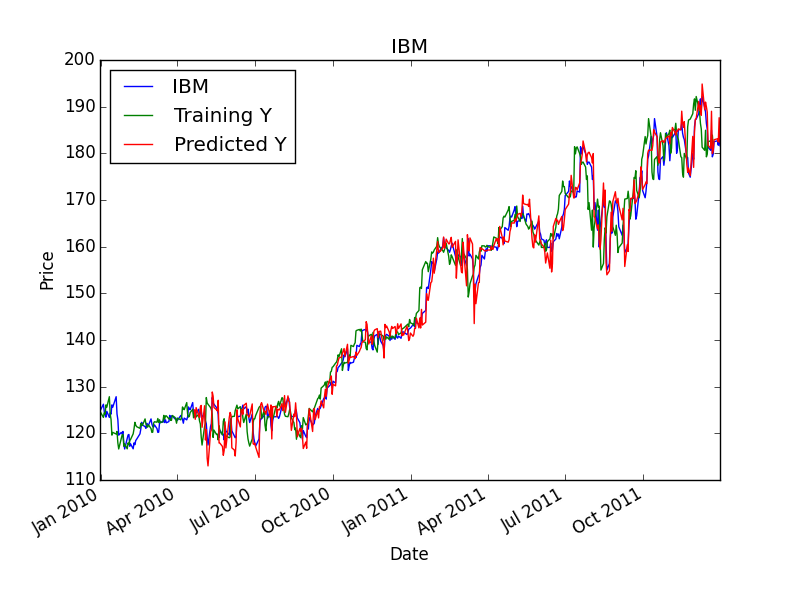
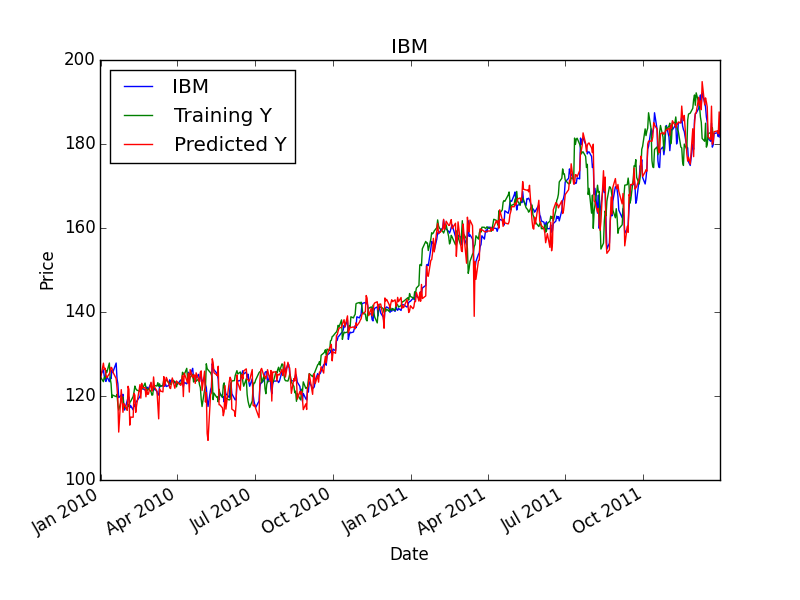
MC3 P2 Remaining plots generated

diff --git a/mc3_p2/mc3_p2.py b/mc3_p2/mc3_p2.py
@@ -124,7 +124,7 @@ def add_bb(prices, symbol):
 
 if __name__ == "__main__":
     symbol = 'IBM'
-    symbol = 'ML4T-220'
+    # symbol = 'ML4T-220'
 
 
     prices = get_data([symbol], pd.date_range(dt.datetime(2007,12,31), dt.datetime(2011,12,31)), False)
@@ -215,54 +215,60 @@ if __name__ == "__main__":
     learner.addEvidence(trainX, trainY) # train it
 
     # evaluate in sample
-    predY = learner.query(trainX) # get the predictions
-    rmse = np.sqrt(((trainY - predY) ** 2).sum()/trainY.shape[0])
-    print
-    print "In sample results"
-    print "RMSE: ", rmse
-    c = np.corrcoef(predY, y=trainY)
-    print "corr: ", c[0,1]
-
-    plot1 = prices.copy()
-    del plot1['bb_normed']
-    del plot1['15div75sma']
-    del plot1[symbol + '_normed']
-    del plot1['momentum']
-    plot1["Training Y"] = ((1.0 + Y)  *  prices[symbol])
-    plot1["Predicted Y"] = ((1.0 + predY) *  prices[symbol])
-    # print(plot1['20071231':'20091231'].tail())
-    chart = plot1['20071231':'20091231'].plot(title=symbol)
-    chart.set_xlabel("Date")
-    chart.set_ylabel("Price")
-    fig = chart.get_figure()
-    fig.savefig(symbol + "_plot1.png")
+    # predY = learner.query(trainX) # get the predictions
+    # rmse = np.sqrt(((trainY - predY) ** 2).sum()/trainY.shape[0])
+    # print
+    # print "In sample results"
+    # print "RMSE: ", rmse
+    # c = np.corrcoef(predY, y=trainY)
+    # print "corr: ", c[0,1]
+    #
+    # plot1 = prices.copy()
+    # del plot1['bb_normed']
+    # del plot1['15div75sma']
+    # del plot1[symbol + '_normed']
+    # del plot1['momentum']
+    # plot1["Training Y"] = ((1.0 + Y)  *  prices[symbol])
+    # plot1["Predicted Y"] = ((1.0 + predY) *  prices[symbol])
+    # # print(plot1['20071231':'20091231'].tail())
+    # chart = plot1['20071231':'20091231'].plot(title=symbol)
+    # chart.set_xlabel("Date")
+    # chart.set_ylabel("Price")
+    # fig = chart.get_figure()
+    # fig.savefig(symbol + "_plot1.png")
     # plt.show()
 
 
     # evaluate out of sample
-    # predY = learner.query(testX) # get the predictions
-    # rmse = np.sqrt(((testY - predY) ** 2).sum()/testY.shape[0])
-    # print
-    # print "Out of sample results"
-    # print "RMSE: ", rmse
-    # c = np.corrcoef(predY, y=testY)
-    # print "corr: ", c[0,1]
-    #
-    # plot1_oos = prices.copy()
-    # del plot1_oos['bb_normed']
-    # del plot1_oos['15div75sma']
-    # del plot1_oos[symbol + '_normed']
-    # del plot1_oos['momentum']
-    # plot1_oos["Training Y"] = ((1.0 + Y)  *  prices[symbol])
-    # plot1_oos["Predicted Y"] = ((1.0 + predY) *  prices[symbol])
-    # # print(plot1_oos['20071231':'20091231'].tail())
-    # chart = plot1_oos['20091231':'20111231'].plot(title=symbol)
-    # chart.set_xlabel("Date")
-    # chart.set_ylabel("Price")
-    # fig = chart.get_figure()
-    # fig.savefig(symbol + "_plot1_oos.png")
+    predY = learner.query(testX) # get the predictions
+    rmse = np.sqrt(((testY - predY) ** 2).sum()/testY.shape[0])
+    print
+    print "Out of sample results"
+    print "RMSE: ", rmse
+    c = np.corrcoef(predY, y=testY)
+    print "corr: ", c[0,1]
 
-    order_chart = prices.plot(title=symbol)
+    plot1_oos = prices.copy()
+    del plot1_oos['bb_normed']
+    del plot1_oos['15div75sma']
+    del plot1_oos[symbol + '_normed']
+    del plot1_oos['momentum']
+    plot1_oos["Training Y"] = ((1.0 + Y)  *  prices[symbol])
+    plot1_oos["Predicted Y"] = ((1.0 + predY) *  prices[symbol])
+    # print(plot1_oos['20071231':'20091231'].tail())
+    chart = plot1_oos['20091231':'20111231'].plot(title=symbol)
+    chart.set_xlabel("Date")
+    chart.set_ylabel("Price")
+    fig = chart.get_figure()
+    fig.savefig(symbol + "_plot1_oos.png")
+
+    orders_chart_prices = prices['20091231':'20111231'].copy()
+    del orders_chart_prices['bb_normed']
+    del orders_chart_prices['15div75sma']
+    del orders_chart_prices[symbol + '_normed']
+    del orders_chart_prices['momentum']
+
+    order_chart = orders_chart_prices.plot(title=symbol)
     order_chart.set_xlabel("Date")
     order_chart.set_ylabel("Price")
 
@@ -273,7 +279,7 @@ if __name__ == "__main__":
 
     hold = 0
     for i in xrange(predY.shape[0]):
-        today = prices.index[i]
+        today = orders_chart_prices.index[i]
         # print(i, today, predY[i])
 
         if hold > 0:
@@ -283,24 +289,24 @@ if __name__ == "__main__":
         if state == 'cash':
             if predY[i] > 0.01:
                 state = 'long'
-                chart.axvline(today, color="g")
+                order_chart.axvline(today, color="g")
                 orders.loc[len(orders)]=[today, symbol, "BUY", 100]
                 hold = 5
             elif predY[i] < -0.01:
                 state = 'short'
-                chart.axvline(today, color="r")
+                order_chart.axvline(today, color="r")
                 orders.loc[len(orders)]=[today, symbol, "SELL", 100]
                 hold = 5
 
         elif state == 'short':
             if predY[i] > 0 and predY[i] < 0.01:
                 state = 'cash'
-                chart.axvline(today, color="k")
+                order_chart.axvline(today, color="k")
                 orders.loc[len(orders)]=[today, symbol, "BUY", 100]
                 hold = 5
             elif predY[i] > 0.01:
                 state = 'long'
-                chart.axvline(today, color="g")
+                order_chart.axvline(today, color="g")
                 orders.loc[len(orders)]=[today, symbol, "BUY", 100]
                 orders.loc[len(orders)]=[today, symbol, "BUY", 100]
                 hold = 5
@@ -308,12 +314,12 @@ if __name__ == "__main__":
         else: #long
             if predY[i] < 0.01 and predY[i] > 0:
                 state = 'cash'
-                chart.axvline(today, color="k")
+                order_chart.axvline(today, color="k")
                 orders.loc[len(orders)]=[today, symbol, "SELL", 100]
                 hold = 5
             elif predY[i] < -0.01:
                 state = 'short'
-                chart.axvline(today, color="r")
+                order_chart.axvline(today, color="r")
                 orders.loc[len(orders)]=[today, symbol, "SELL", 100]
                 orders.loc[len(orders)]=[today, symbol, "SELL", 100]
                 hold = 5
@@ -321,14 +327,14 @@ if __name__ == "__main__":
 
     if state == 'long':
         orders.loc[len(orders)]=[today, symbol, "SELL", 100]
-        chart.axvline(today, color="k")
+        order_chart.axvline(today, color="k")
     elif state == 'short':
         orders.loc[len(orders)]=[today, symbol, "BUY", 100]
-        chart.axvline(today, color="k")
+        order_chart.axvline(today, color="k")
 
 
-    fig = chart.get_figure()
-    fig.savefig(symbol + '_plot2.png')
+    fig = order_chart.get_figure()
+    fig.savefig(symbol + '_oos_entry_exit.png')
     # plt.show()
 
     baseline_perf=0.3524
